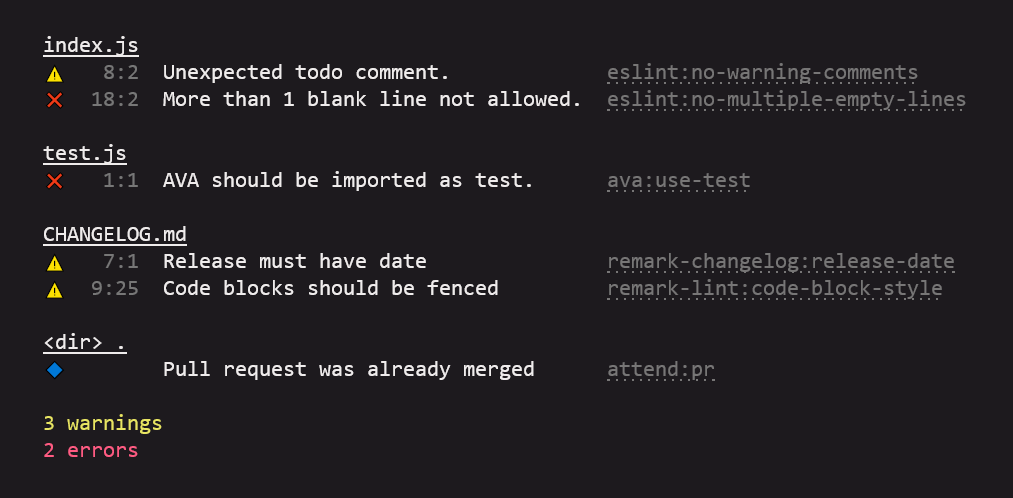
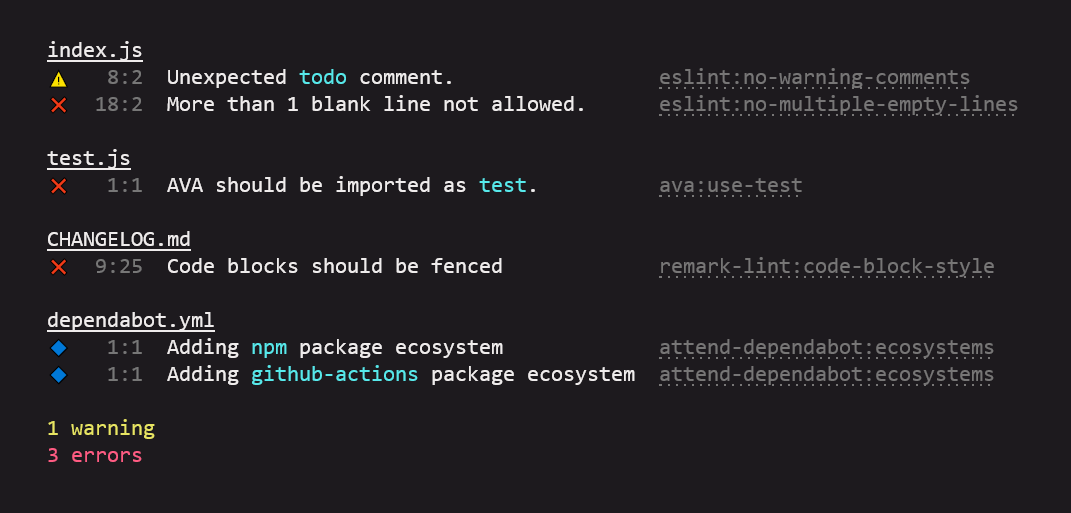
Stylize code blocks with cyan instead of bold

diff --git a/test/test.js b/test/test.js
@@ -176,10 +176,10 @@ test('doesn\'t throw errors when rule docs aren\'t found', t => {
   t.true(output.includes('@typescript-eslint:no-unused-vars'))
 })
 
-test('link remark-lint rules to remark-lint docs', t => {
+test('link remark and attend rules to docs', t => {
   enableHyperlinks()
   const output = reporter(defaultFixture, data)
   console.log(output)
   t.true(output.includes(ansiEscapes.link(chalk.dim('remark-lint:code-block-style'), 'https://github.com/remarkjs/remark-lint/blob/main/doc/rules.md')))
-  t.true(output.includes(ansiEscapes.link(chalk.dim('remark-changelog:release-date'), 'https://npmjs.com/package/remark-changelog')))
+  t.true(output.includes(ansiEscapes.link(chalk.dim('attend-dependabot:ecosystems'), 'https://npmjs.com/package/attend-dependabot')))
 })

diff --git a/index.js b/index.js
@@ -63,7 +63,7 @@ module.exports = function (files, options) {
       else errorCount++
 
       // Stylize inline code blocks
-      reason = reason.replace(/\B`(.*?)`\B|\B'(.*?)'\B/g, (m, p1, p2) => chalk.bold(p1 || p2))
+      reason = reason.replace(/\B`(.*?)`\B|\B'(.*?)'\B/g, (m, p1, p2) => chalk.cyan(p1 || p2))
 
       const pos = stringify(m)
       const posWidth = stringWidth(pos)
